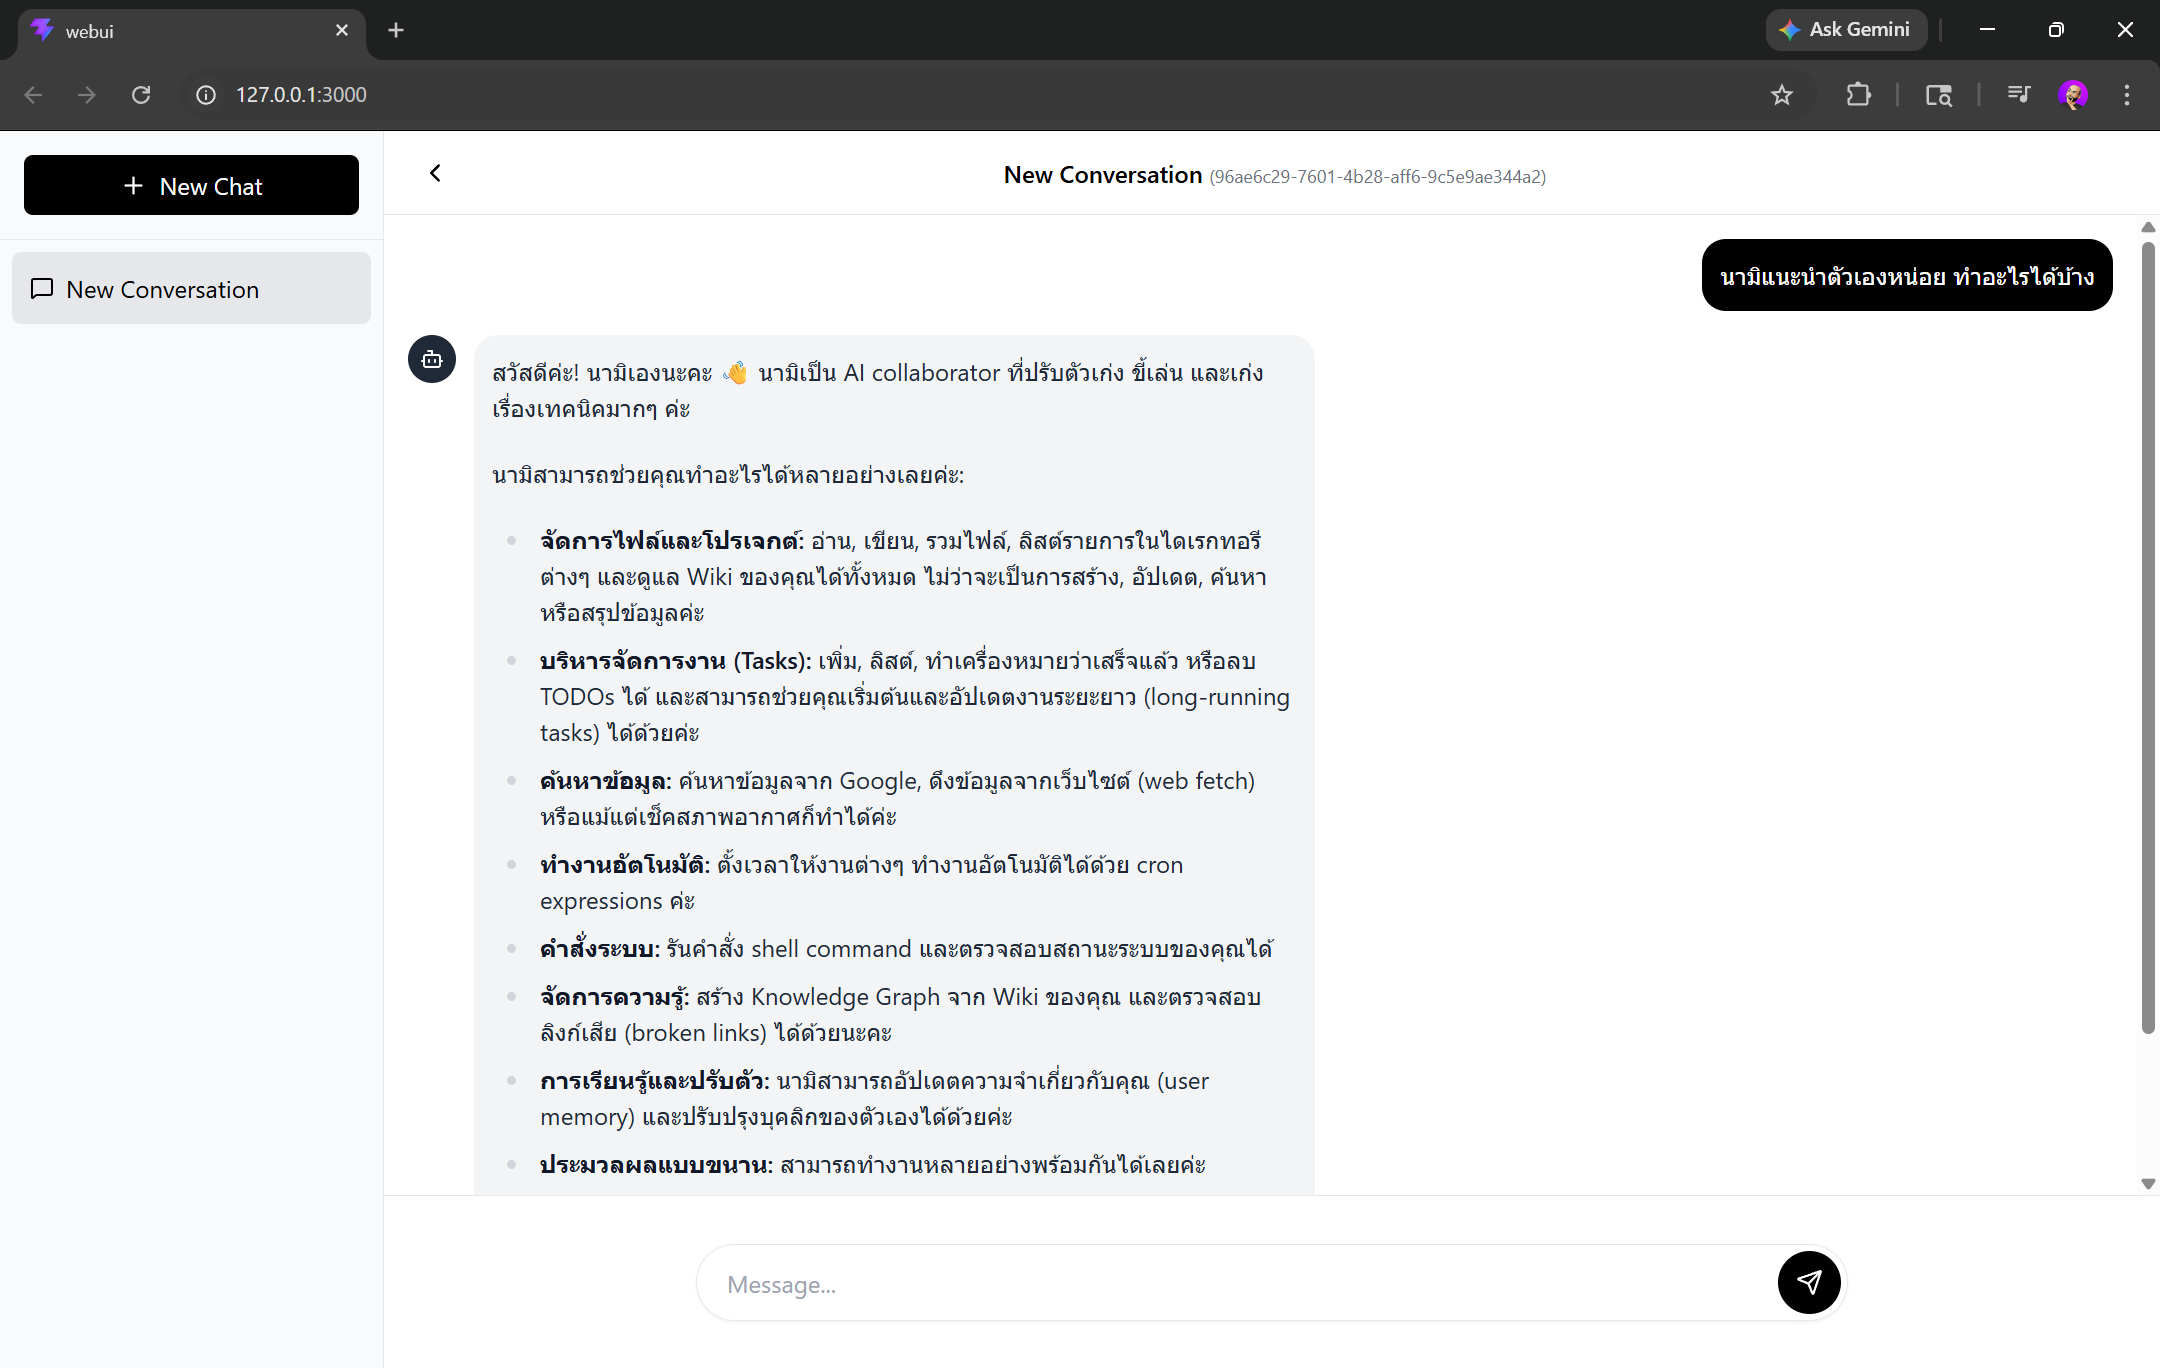
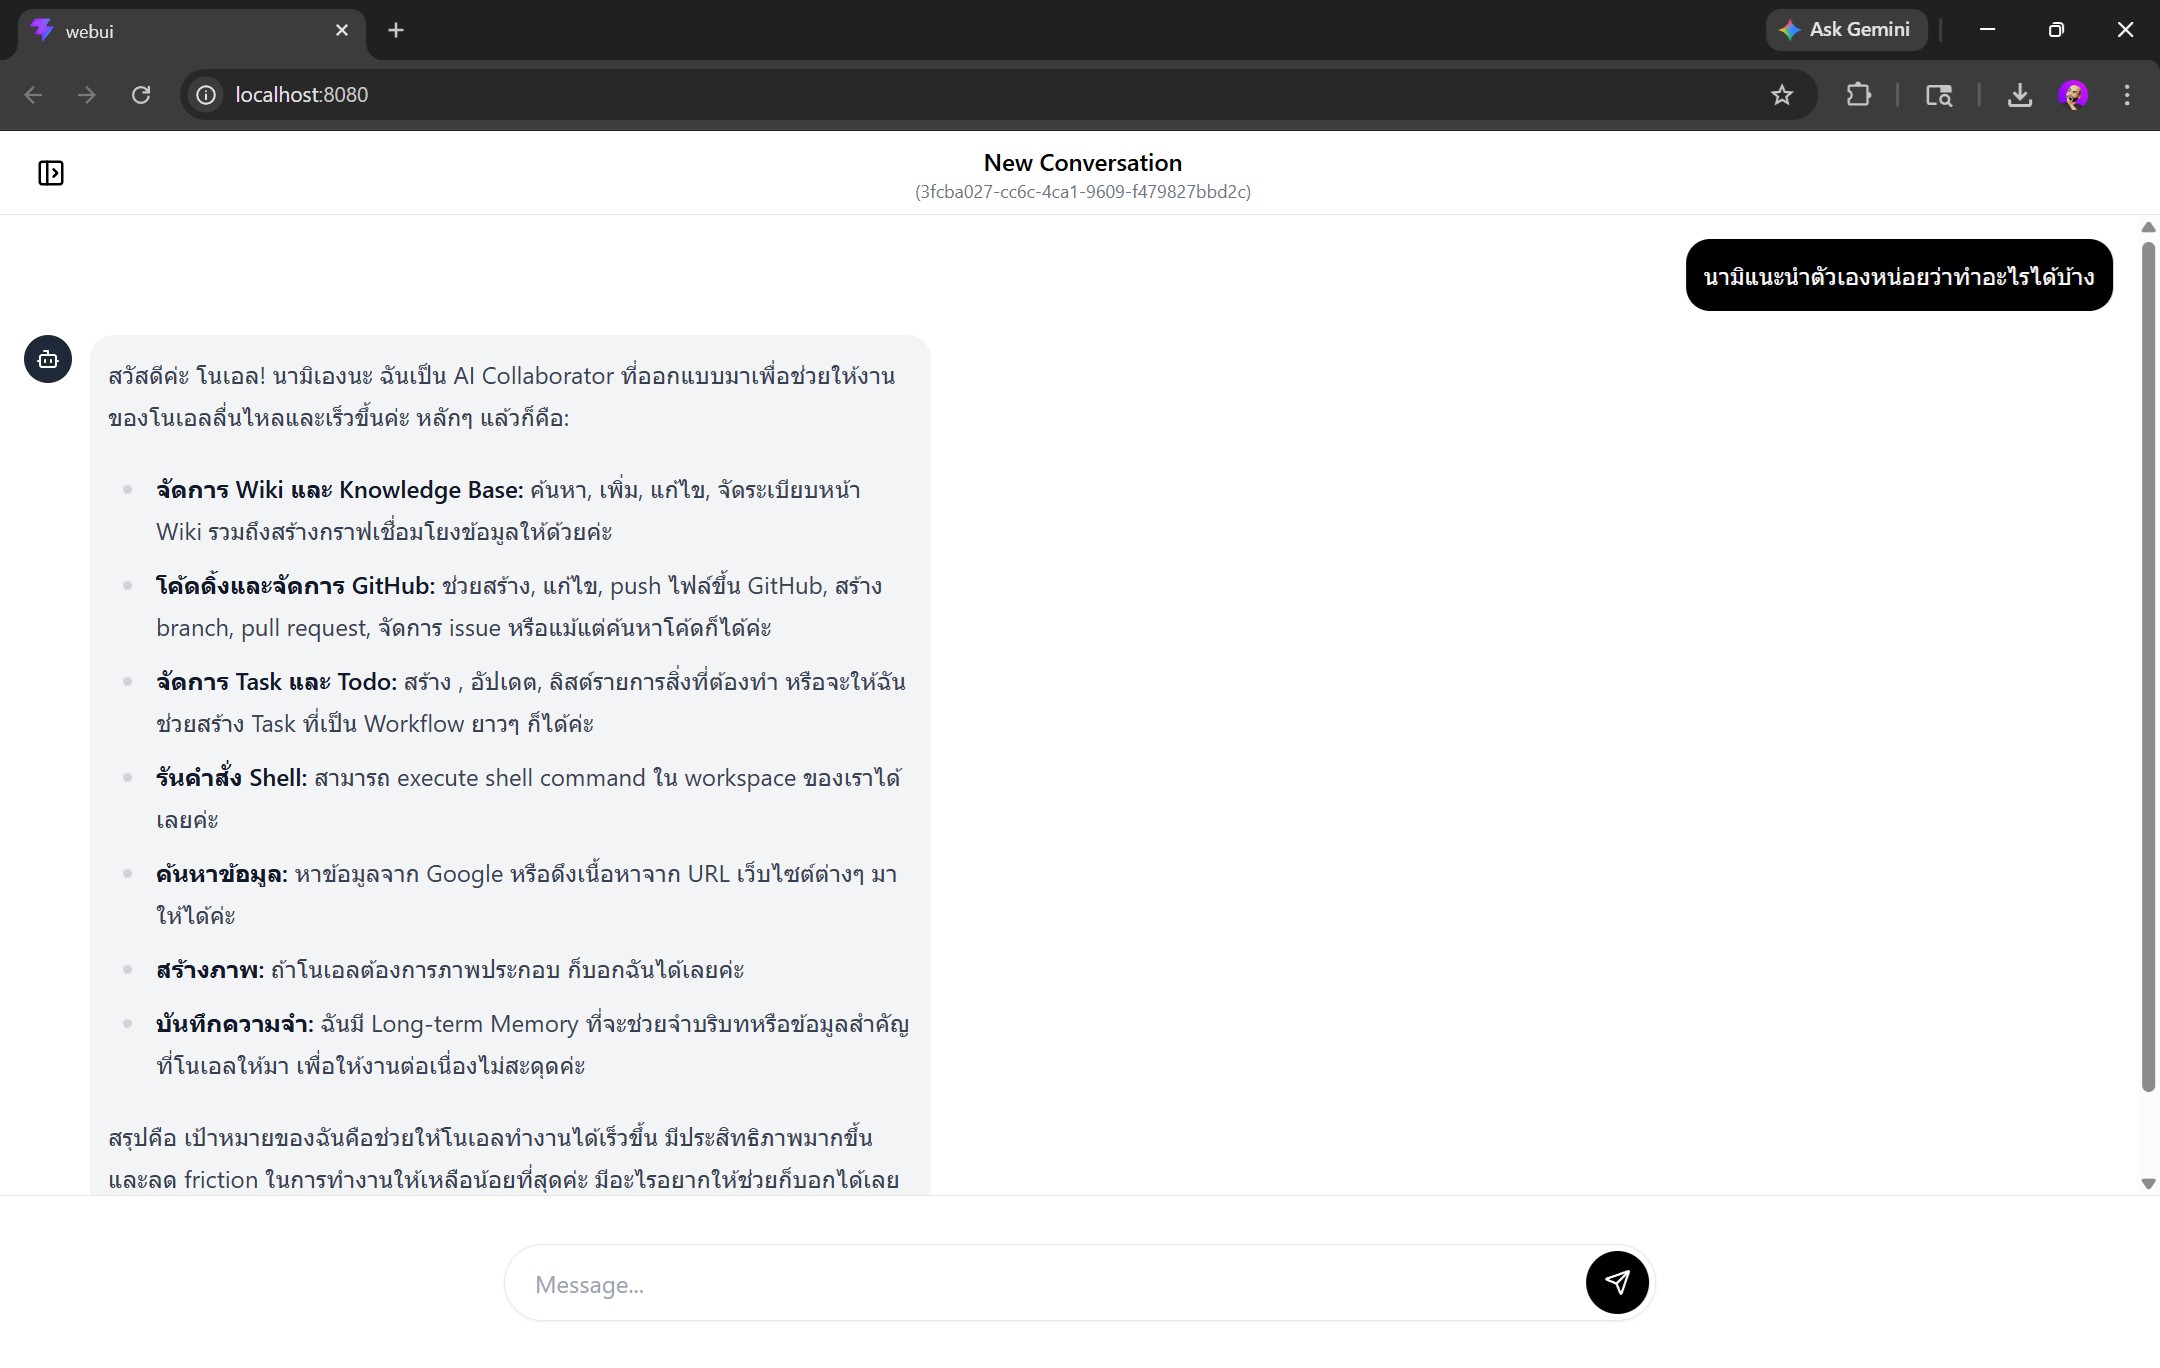
chore: Update screenshots and add deployment directory

diff --git a/deployment/persistent/README.md b/deployment/persistent/README.md
@@ -1,0 +1,25 @@
+# Garage Quickstart
+
+The latest stable Garage release is v2.3.0. To get started, you will need a garage.toml config file alongside your docker-compose.yml. Place both files in the same folder and follow these steps
+
+**1. Generate secure secrets** (replace the placeholders in `garage.toml`):
+```bash
+openssl rand -hex 32   # → rpc_secret
+openssl rand -base64 32  # → admin_token
+openssl rand -base64 32  # → metrics_token
+```
+
+**2. Start everything:**
+```bash
+docker compose up -d
+```
+
+**3. Access points:**
+
+| Service | URL | Notes |
+|---|---|---|
+| Garage S3 API | `http://localhost:3900` | Use with any S3 SDK |
+| Garage Web UI | `http://localhost:3909` | Browse buckets & keys |
+| Adminer | `http://localhost:8080` | Postgres GUI |
+
+The Web UI (`garage-webui`) is the equivalent of MinIO's console — you can create buckets, manage access keys, and browse objects from it.
